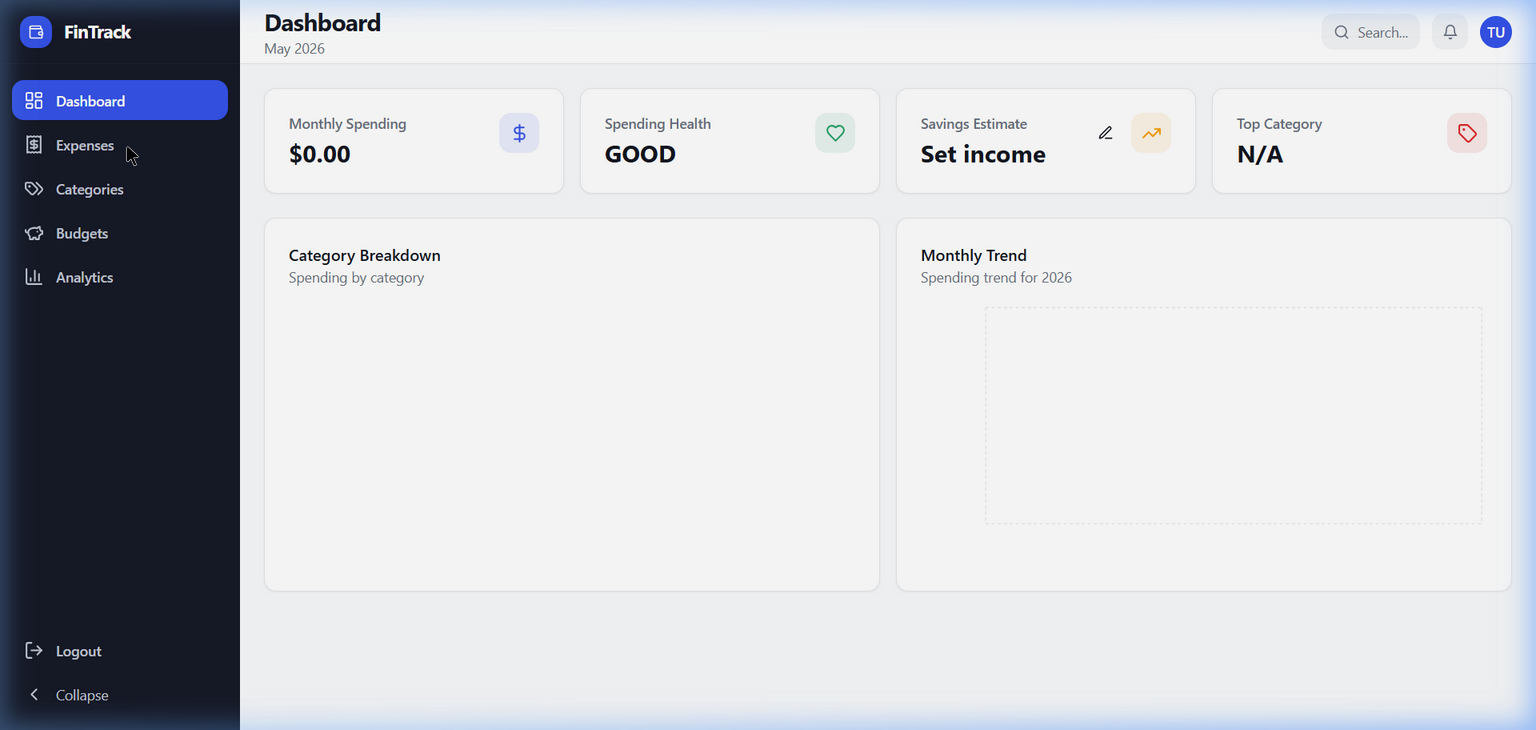
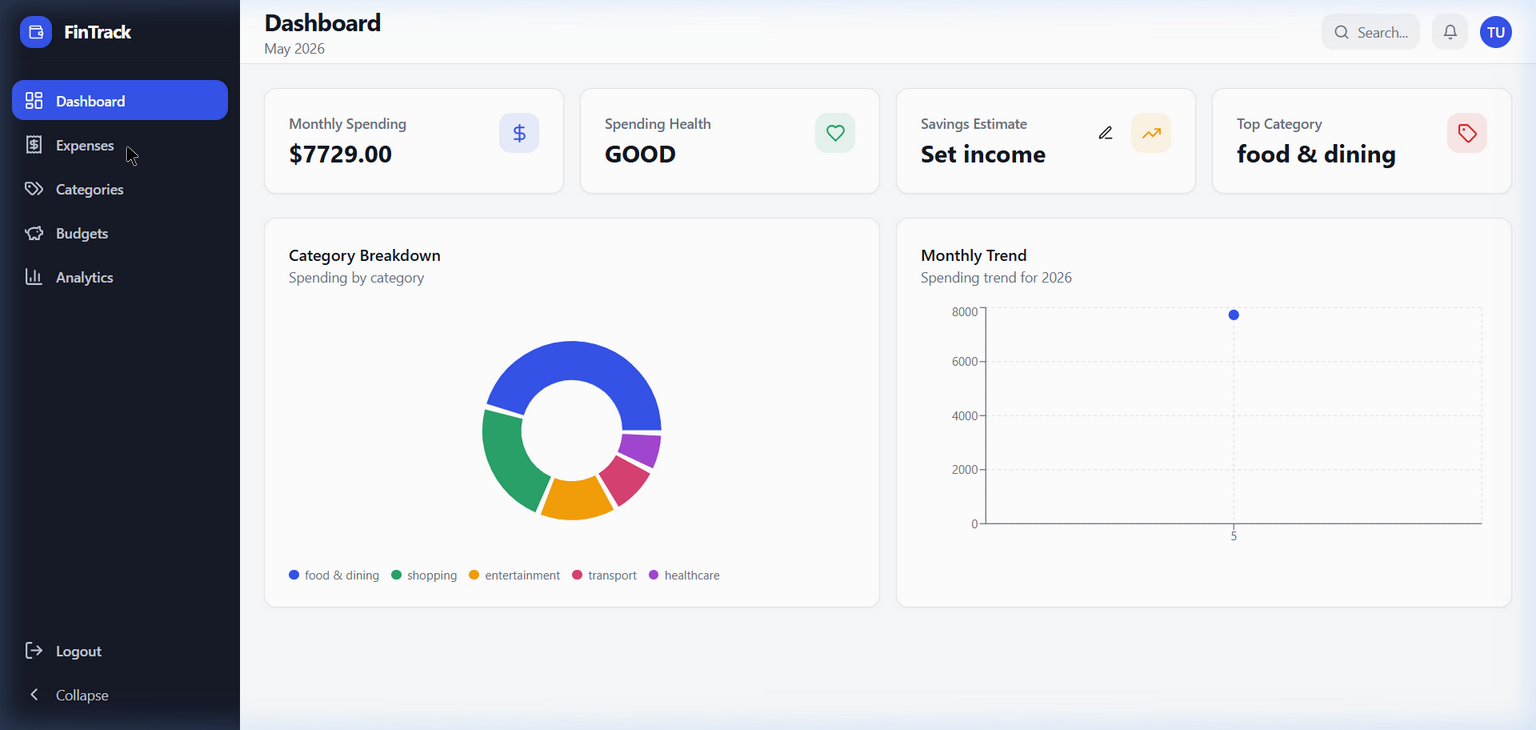
docs: replace screenshots with populated data, add analytics page screenshot
- Dashboard now shows  monthly spending, category breakdown donut chart,
  monthly trend line chart, and top category (food & dining)
- Expenses page shows all 8 sample expenses across 5 categories
- Categories page shows 5 categories (Food & Dining, Transport, Entertainment,
  Shopping, Healthcare) as card grid
- Budgets page shows 5 budgets with real spent/remaining amounts and SAFE status
- Added new analytics screenshot (06_analytics.png)
- Updated README to include analytics page in the Screenshots section

diff --git a/README.md b/README.md
@@ -155,6 +155,11 @@
 
 ![Budgets](docs/screenshots/05_budgets.png)
 
+### Analytics
+> Full analytics view — monthly spending totals, category breakdown, spending health indicator, and monthly trend chart.
+
+![Analytics](docs/screenshots/06_analytics.png)
+
 ---
 
 ## 📡 API Reference
